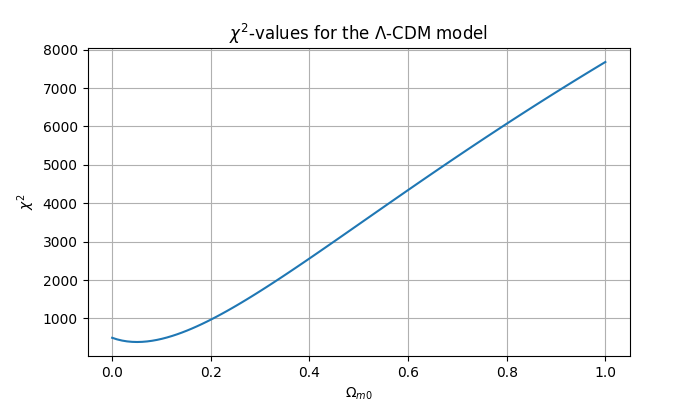
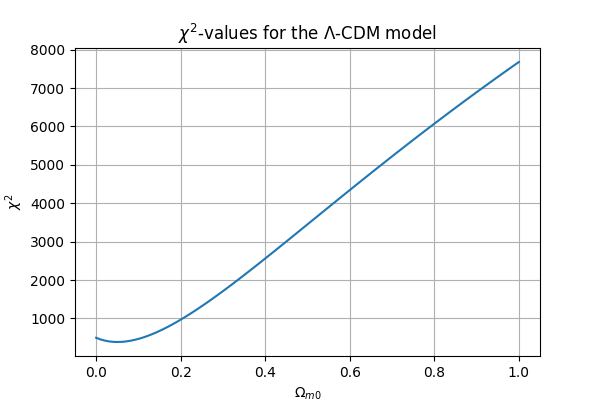
adjusted figsize

diff --git a/Projects/Project 1/scripts/problem14.py b/Projects/Project 1/scripts/problem14.py
@@ -45,7 +45,7 @@ def luminosity_distance_lambdacdm(
 def plot_lambdacdm_chisquared(
     Omega_m0_vals: np.ndarray,
     filename: str = None,
-    figsize: tuple[int, int] = (7, 4),
+    figsize: tuple[int, int] = (6, 4),
     prnt: bool = True,
 ) -> None:
     """Plots the chi-squared value as a function of the Omega_m0 parameter for
